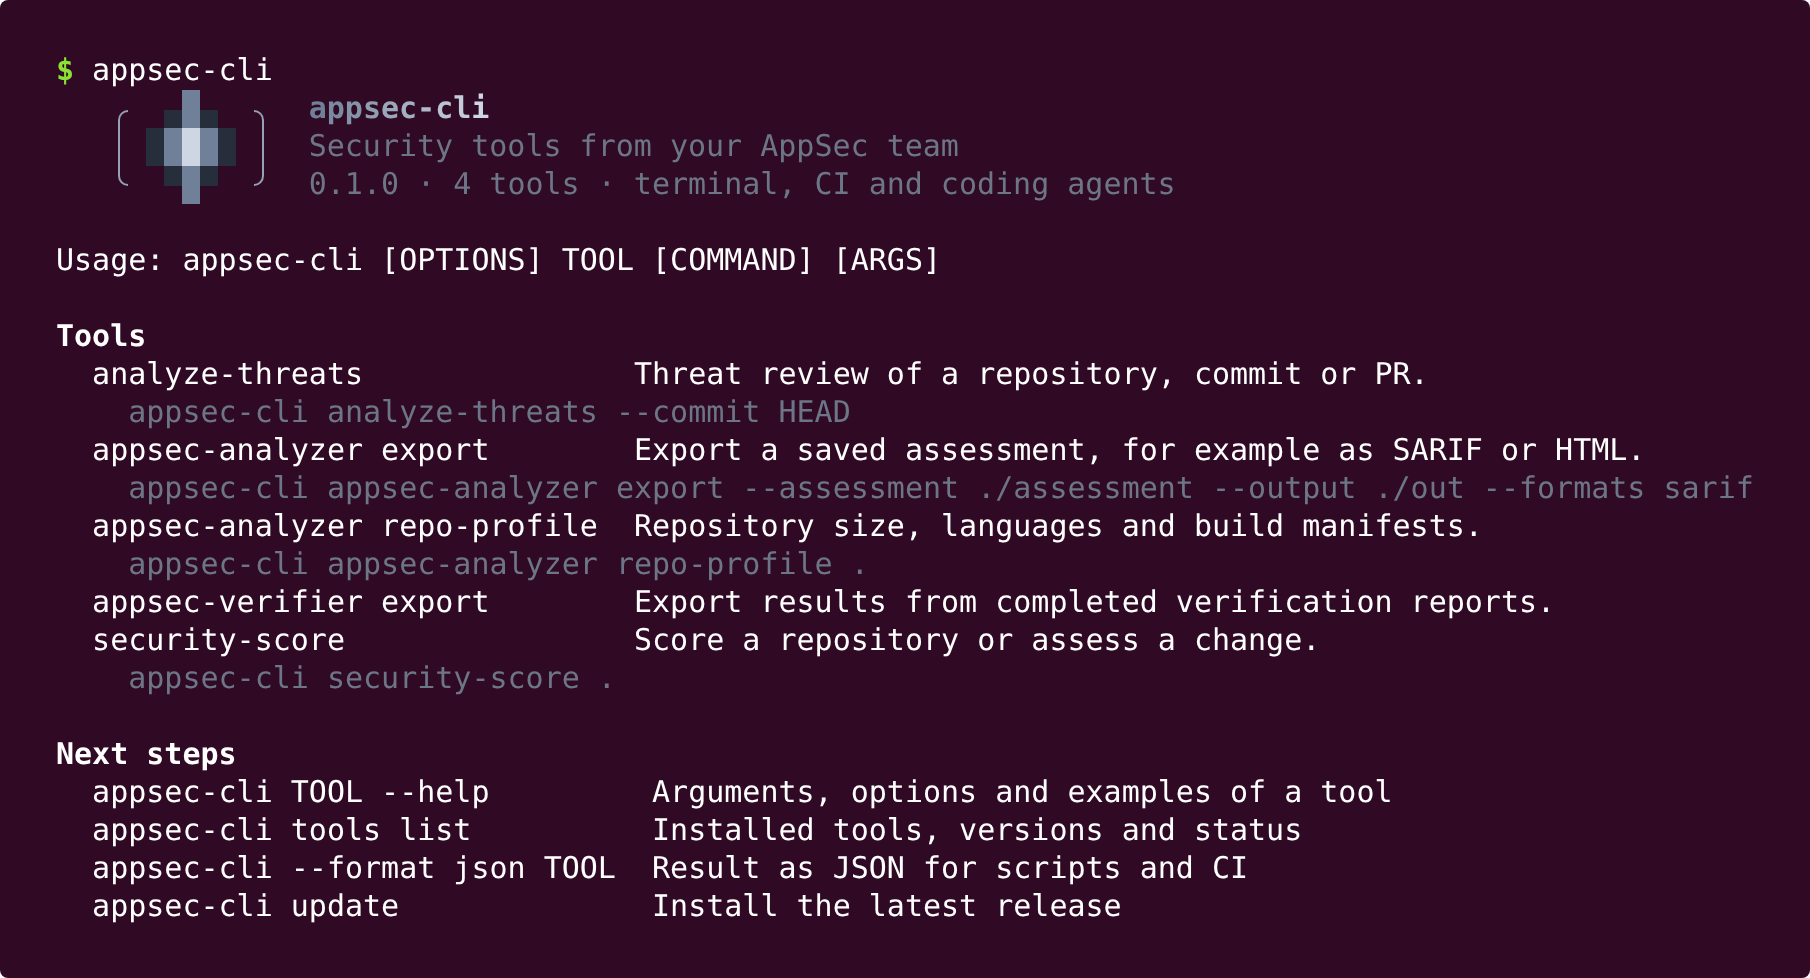
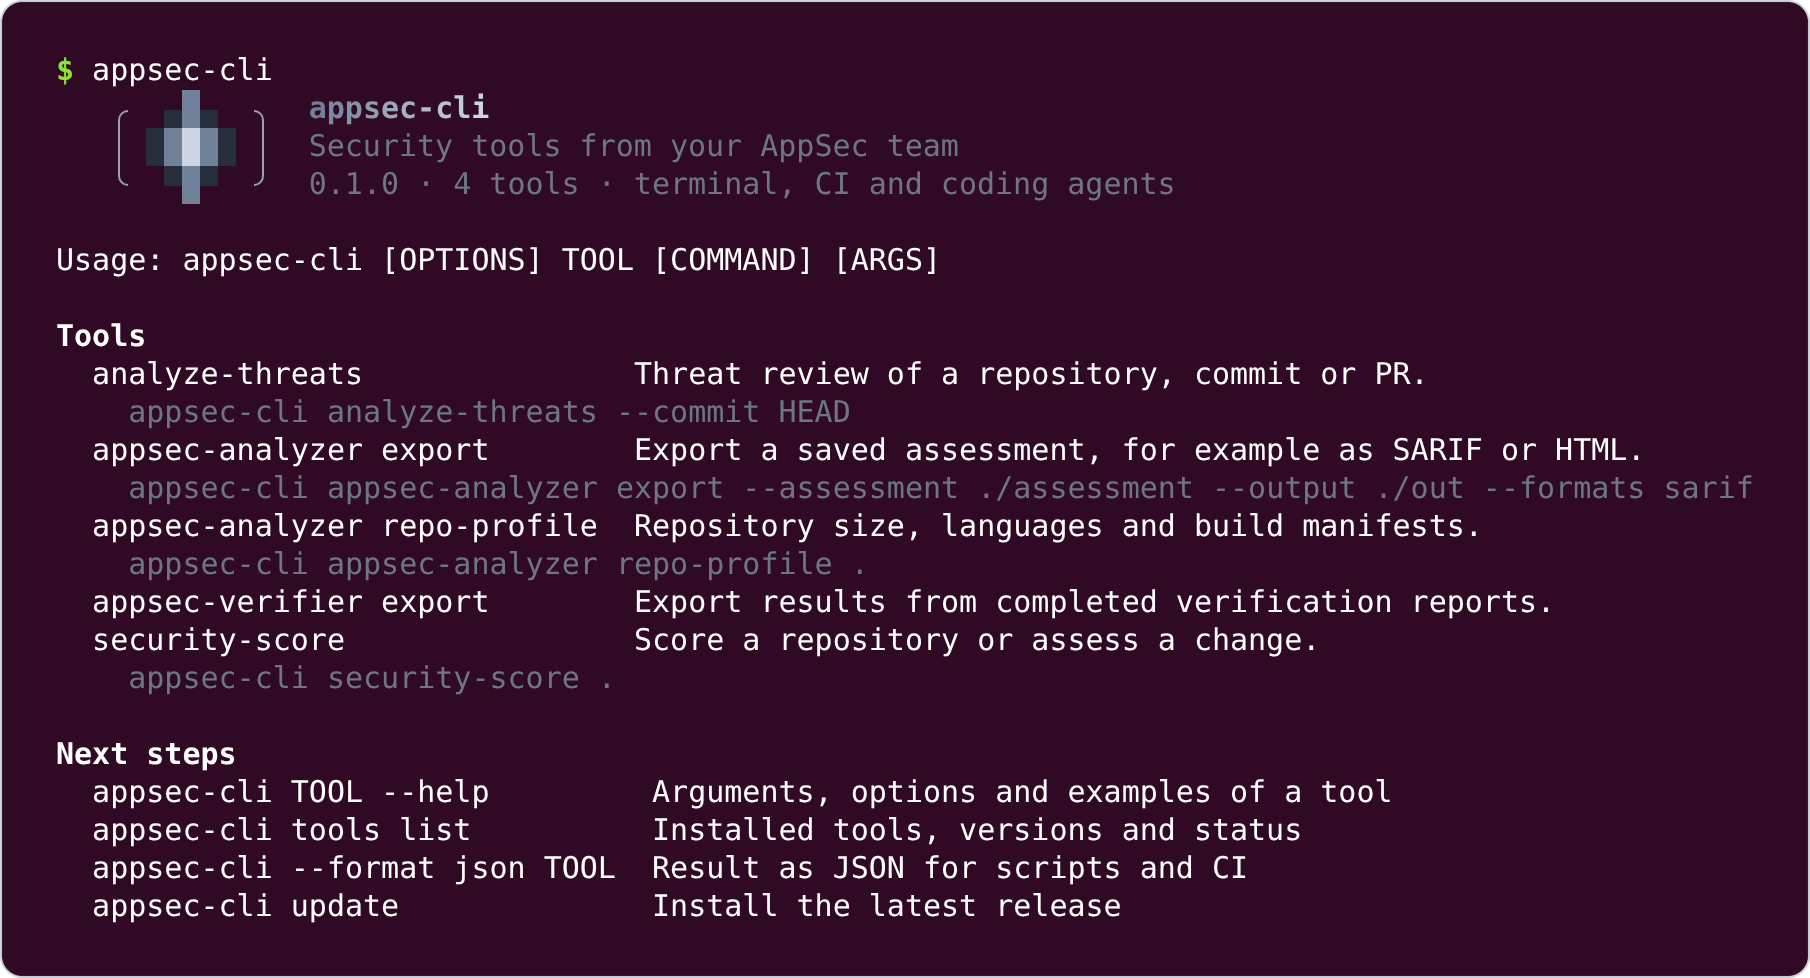
Frame the start page image like the appsec-foundry profile
The README shows the start page with the rounded, thin-lined frame of
the appsec-foundry profile images, in a light and a dark variant that
follow the GitHub theme.

Changed region(s): [[0.0, 0.0, 1.0, 1.0], [0.0, 0.0, 0.0309, 0.0307]]

diff --git a/README.md b/README.md
@@ -11,7 +11,10 @@
 
 appsec-cli gives development teams the security tools of their AppSec team in one command-line tool. Developers install it once and call every tool the same way, in the terminal, in CI, or from a coding agent. The AppSec team decides which tools go into a release.
 
-![Start page of appsec-cli in the terminal: the tools of the example setup with an example call each, and the next steps](docs/images/start-page.png)
+<picture>
+  <source media="(prefers-color-scheme: dark)" srcset="docs/images/start-page-dark.png">
+  <img src="docs/images/start-page.png" alt="Start page of appsec-cli in the terminal: the tools of the example setup with an example call each, and the next steps" width="100%">
+</picture>
 
 This repository contains an example setup built on tools from [appsec-foundry](https://github.com/appsec-foundry): [Security Score](https://github.com/appsec-foundry/appsec-tools/tree/main/security-score), [AppSec Analyzer](https://github.com/appsec-foundry/appsec-analyzer), and [AppSec Verifier](https://github.com/appsec-foundry/appsec-verifier). Replace them with your own tools or add more.
 
